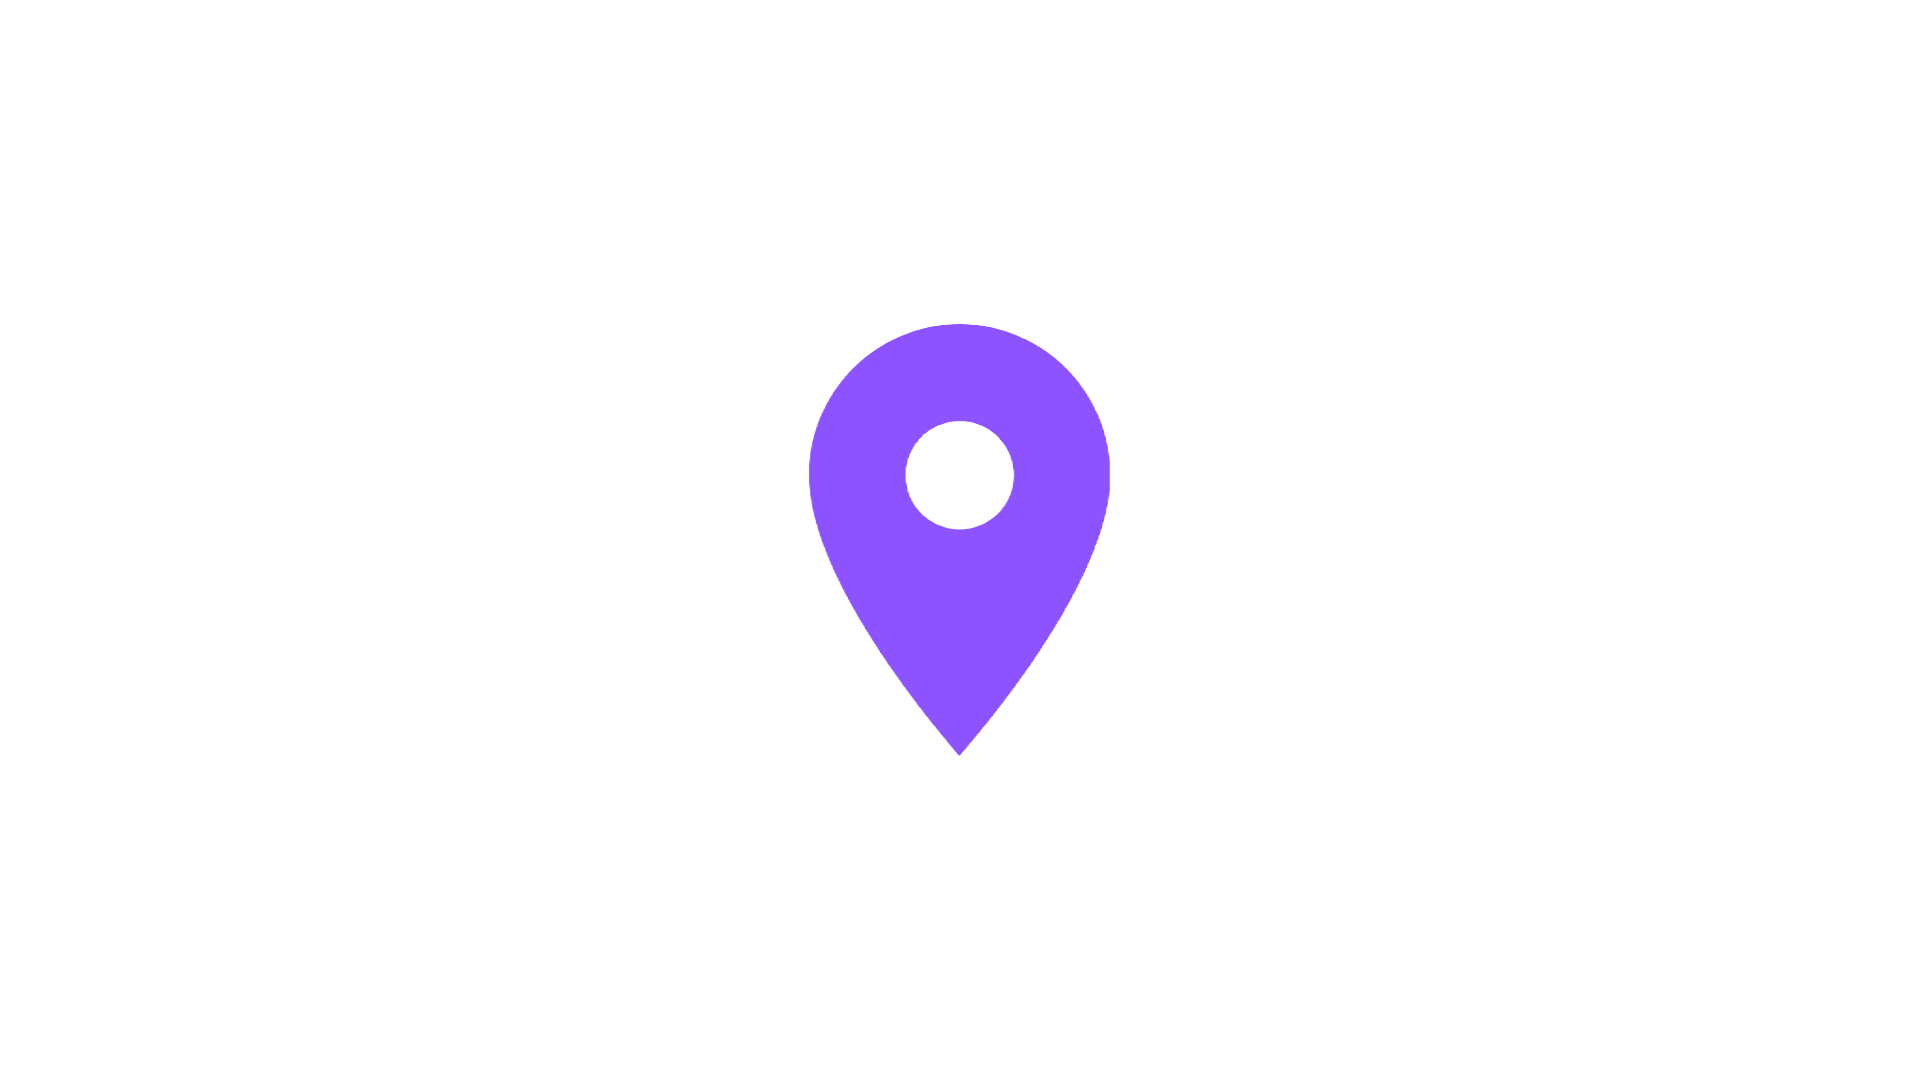
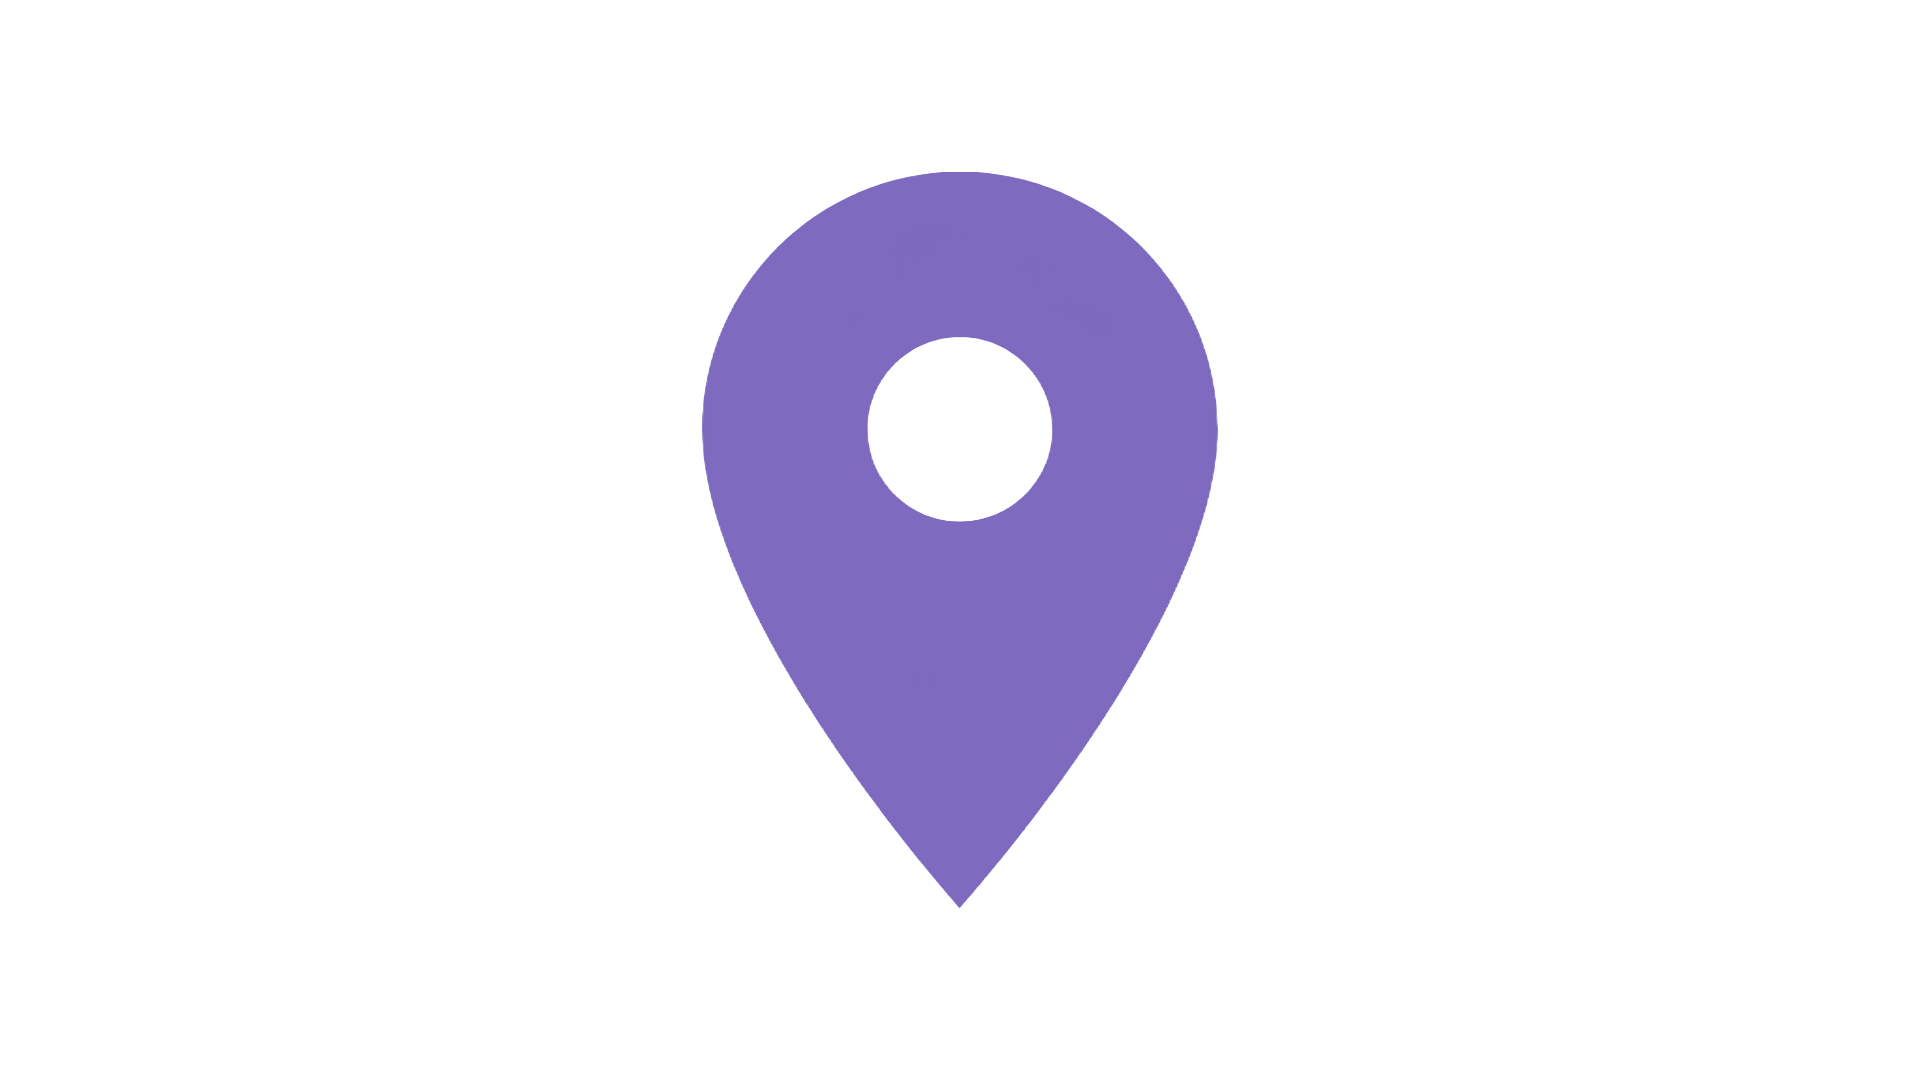
Alterado endereço e adicionado interatividade

Changed region(s): [[0.3438, 0.1528, 0.6562, 0.825]]

diff --git a/src/pages/Localizacao.vue b/src/pages/Localizacao.vue
@@ -8,10 +8,18 @@
         <img src="../assets/image/homemfrio.jpg" alt="Mapa de localização" class="mapa-img" />
       </div>
 
-      <!-- INFORMAÇÕES -->
+      <div class="upper">
+        <p>Pressione o <span class="highlight-purple"> icone </span> abaixo </p>
+      </div>
+
+
+      <!-- LOCALIZAÇÃO COM ÍCONE CLICÁVEL -->
       <div class="local-info">
+        <a href="https://www.google.com/maps?q=Av.+Manoel+Elias,+2001+-+Passo+das+Pedras,+Porto+Alegre+-+RS,+91240-261" 
+        target="_blank" rel="noopener">
         <img src="../assets/image/loc.png" alt="Ícone de localização" class="local-icon" />
-        <p><strong>Endereço:</strong> Rua Orfanotrófio, 555 - Alto Teresópolis, Porto Alegre - RS</p>
+        </a>
+        <p><strong>Endereço:</strong>  Av. Manoel Elias, 2001 - Passo das Pedras, Porto Alegre - RS, 91240-261</p>
         <p class="p2"><strong>Atuação:</strong> Entregas, arrecadação e suporte aos mais vulneráveis.</p>
       </div>
 

diff --git a/src/css/app.scss b/src/css/app.scss
@@ -212,6 +212,25 @@
   margin-bottom: px;
 }
 
+.upper {
+  font-size: 17px;
+  text-align: center;
+  margin-bottom: px;
+}
+
+.local-icon {
+  width: 50%;
+  height: 65%;
+  transition: transform 0.3s ease, filter 0.3s ease;
+  filter: drop-shadow(0 4px 6px rgba(0, 0, 0, 0.3));
+  cursor: pointer;
+}
+
+.local-icon:hover {
+  transform: scale(1.1);
+  filter: drop-shadow(0 8px 12px rgba(0, 0, 0, 0.5));
+}
+
 .p2 {
   font-size: 17px;
   text-align: center;
